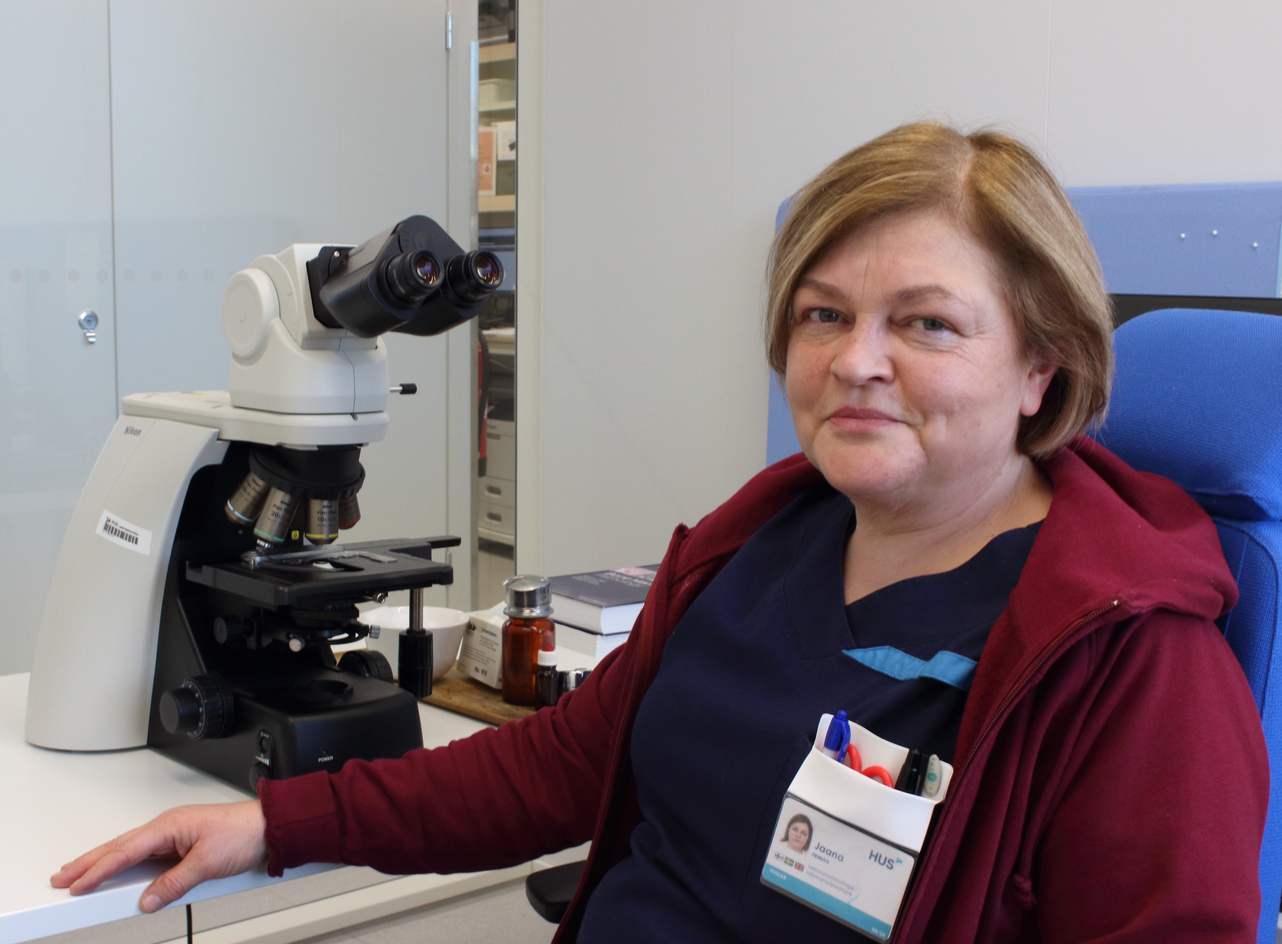
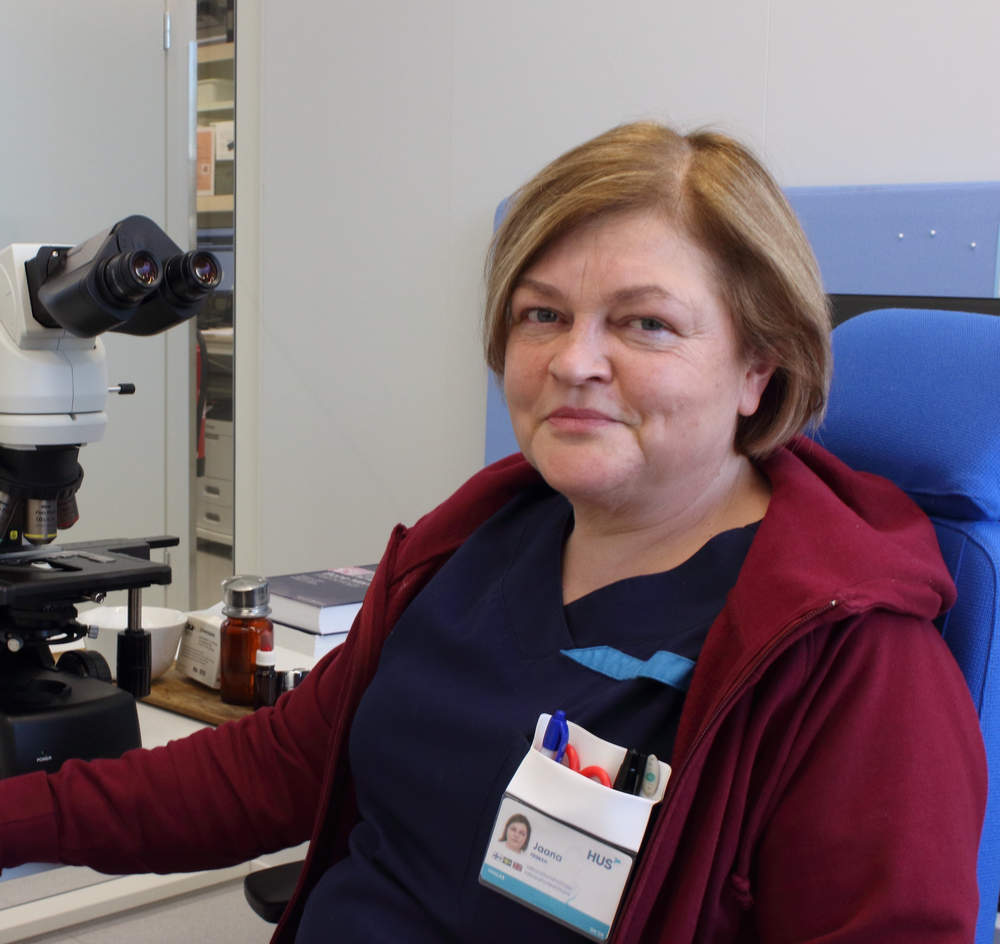
figures

diff --git a/css/figure.scss b/css/figure.scss
@@ -12,7 +12,7 @@
   @include trim-v-margins;
 
   .figure_image {
-    max-width: 25em;
+    max-width: 40em;
     max-height: 100%;
     // box-shadow: $shadow;
   }
